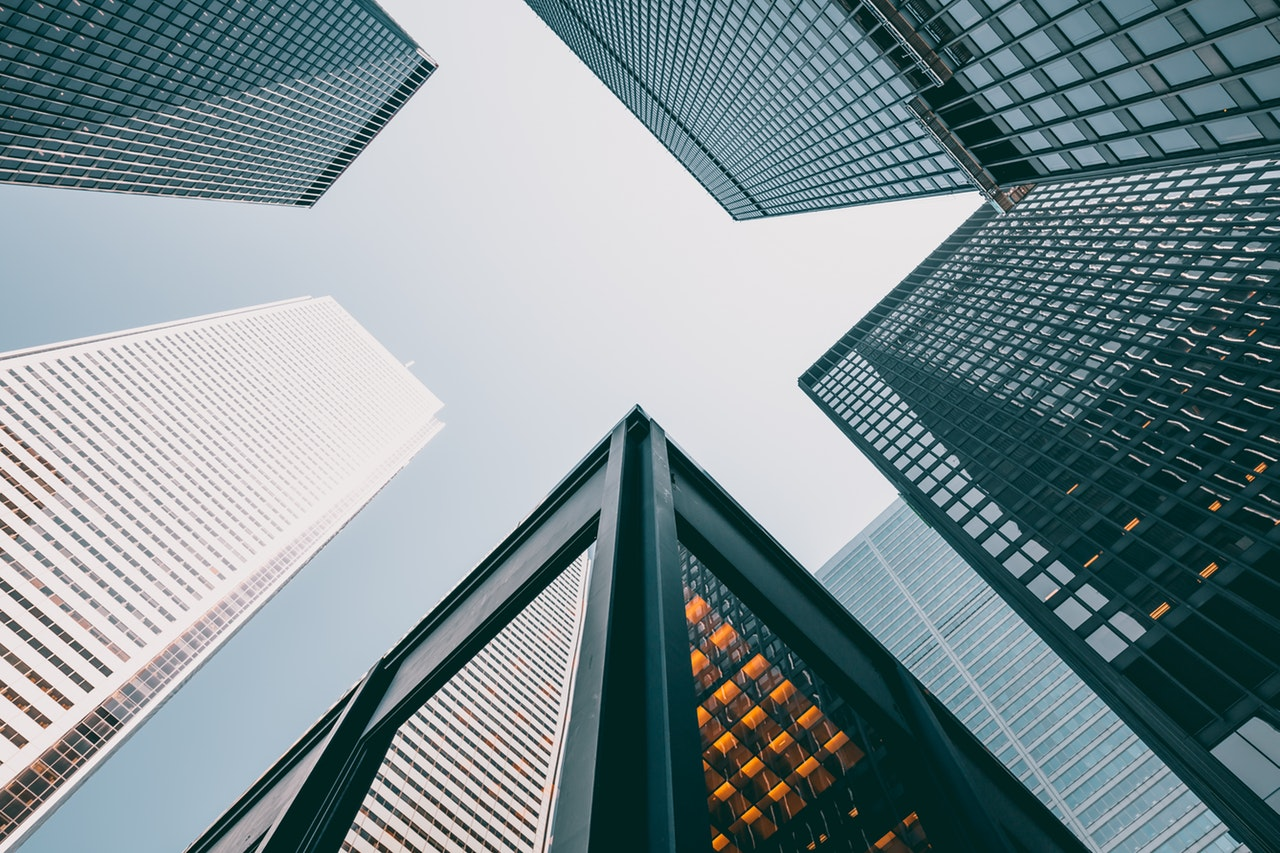
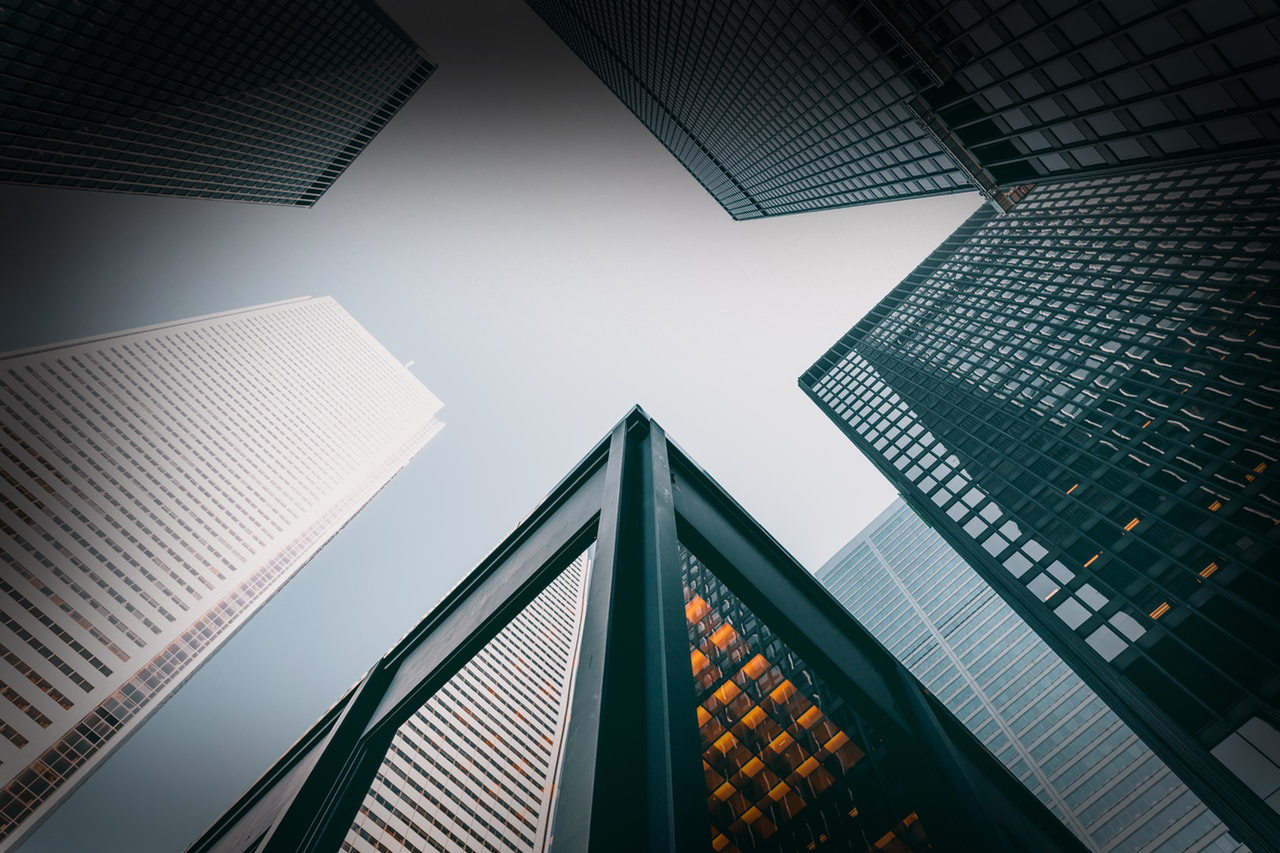
May 30, at home

diff --git a/meet.html b/meet.html
@@ -17,11 +17,11 @@
 	<!-- External CSS -->
 	<link rel="stylesheet" type="text/css" href="assets/css/style.css">
 
-	<title>Bryant Stibel</title>
+	<title>Meet the people</title>
 </head>
 <body>
 
-	<div class="main-container">
+	<div class="main-container2">
 		<div class="overlay">
 			<nav class="navbar navbar-expand-lg py-4" style="border-bottom: 1px solid rgba(255,255,252,0.3);">
 				<div class="container">
@@ -61,7 +61,7 @@
 					<div class="row">
 						<div class="col-lg-12 text-center">
 							<div style="width: 68%; margin: 0 auto;">
-								<h1 class="display-2 text-white my-5">We take care of your legal matters</h1>
+								<h1 class="display-2 text-white my-5">Meet the people behind Bryant Stibel</h1>
 
 								<p class="p-off-white"><em>Duis aute irure dolor in reprehenderit in voluptate velit esse
 								cillum dolore eu fugiat nulla pariatur. Excepteur sint occaecat cupidatat non
@@ -89,10 +89,25 @@
 				<hr/>
 			</div>
 
+			<!-- Solo picture -->
+			<div class="col-lg-4"></div>
+			<div class="col-lg-4 text-center mb-5">
+				<div style="height: 350px; width: 100%; background-color :#666; box-shadow: -1px 1px 1px #969685;">
+					
+				</div>
+
+				<h4 class="heading-color mb-2 mt-4">First column</h4>
+
+				<p class="text-secondary">Lorem ipsum dolor sit amet, consectetur adipisicing elit, sed do eiusmod
+				tempor.</p>
+
+			</div> <!-- end col 4 -->
+			<div class="col-lg-4"></div>
+
 
 			<!-- 3-column section -->
 			<div class="col-lg-4 text-center">
-				<div style="height: 180px; width: 100%; background-color :#666; box-shadow: -1px 1px 1px #969685;">
+				<div style="height: 350px; width: 100%; background-color :#666; box-shadow: -1px 1px 1px #969685;">
 					
 				</div>
 
@@ -103,7 +118,7 @@
 			</div> <!-- end col 4 -->
 
 			<div class="col-lg-4 text-center">
-				<div style="height: 180px; width: 100%; background-color :#666; box-shadow: -1px 1px 1px #969685;">
+				<div style="height: 350px; width: 100%; background-color :#666; box-shadow: -1px 1px 1px #969685;">
 					
 				</div>
 
@@ -114,7 +129,7 @@
 			</div> <!-- end col 4 -->
 
 			<div class="col-lg-4 text-center">
-				<div style="height: 180px; width: 100%; background-color :#666; box-shadow: -1px 1px 1px #969685;">
+				<div style="height: 350px; width: 100%; background-color :#666; box-shadow: -1px 1px 1px #969685;">
 					
 				</div>
 
@@ -123,35 +138,7 @@
 				<p class="text-secondary">Lorem ipsum dolor sit amet, consectetur adipisicing elit, sed do eiusmod
 				tempor.</p>
 			</div> <!-- end col 4 -->
-
-			<div class="col-lg-12 mt-4 text-center">
-				<hr/>
-
-				<h2 class="heading-color mb-5 mt-5">We are your heroes</h2>
-
-				<!-- <p class="text-secondary mb-5">Lorem ipsum dolor sit amet, consectetur adipisicing elit, sed do eiusmod
-				tempor incididunt ut labore et dolore magna aliqua. Ut enim ad minim veniam,
-				quis nostrud exercitation ullamco laboris nisi ut aliquip ex ea commodo
-				consequat.</p> -->
-			</div>
-
-			<div class="col-lg-5">
-				<div style="height: 220px; width: 100%; background-color :#666; box-shadow: -1px 1px 1px #969685;">
-					
-				</div>
-			</div>
-
-			<div class="col-lg-7 align-self-center">
-				<p class="text-secondary">Lorem ipsum dolor sit amet, consectetur adipisicing elit, sed do eiusmod
-				tempor incididunt ut labore et dolore magna aliqua. Ut enim ad minim veniam,
-				quis nostrud exercitation ullamco laboris nisi ut aliquip ex ea commodo
-				consequat. Lorem ipsum dolor sit amet, consectetur adipisicing elit, sed do eiusmod
-				tempor incididunt ut labore et dolore magna aliqua.</p>
-
-				<p class="text-secondary">Lorem ipsum dolor sit amet, consectetur adipisicing elit, sed do eiusmod
-				tempor incididunt ut labore et dolore magna aliqua. Lorem ipsum dolor sit amet, consectetur adipisicing elit, sed do eiusmod
-				tempor incididunt. Lorem ipsum dolor sit amet.</p>
-			</div>
+		
 		</div> <!-- end row -->
 
 

diff --git a/assets/css/style.css b/assets/css/style.css
@@ -14,6 +14,12 @@ body {
 	box-shadow: -1px 1px 1px #800000;
 }
 
+.main-container2 {
+	background: url(../../assets/images/meet-bg.jpg) no-repeat center;
+	background-size: cover;
+	box-shadow: -1px 1px 1px #800000;
+}
+
 .overlay {
 	background: rgba(162,22,22,0.8);
 	width: 100%;
@@ -41,7 +47,7 @@ h6 {
 
 p {
 	font-family: 'Nanum Gothic', sans-serif;
-	font-size: 13.5px;
+	font-size: 14px;
 	line-height: 1.8;
 }
 
@@ -117,11 +123,16 @@ p {
 	background-color: #003636;
 	border: 0;
 	font-family: 'Nanum Gothic', sans-serif;
-	font-size: 18px; 
+	font-size: 16px; 
 }
 
 .footer-links {
 	list-style: none;
+}
+
+.footer-links li {
+	display: inline;
+	padding: 0 15px;
 }
 
 .footer-links a {
